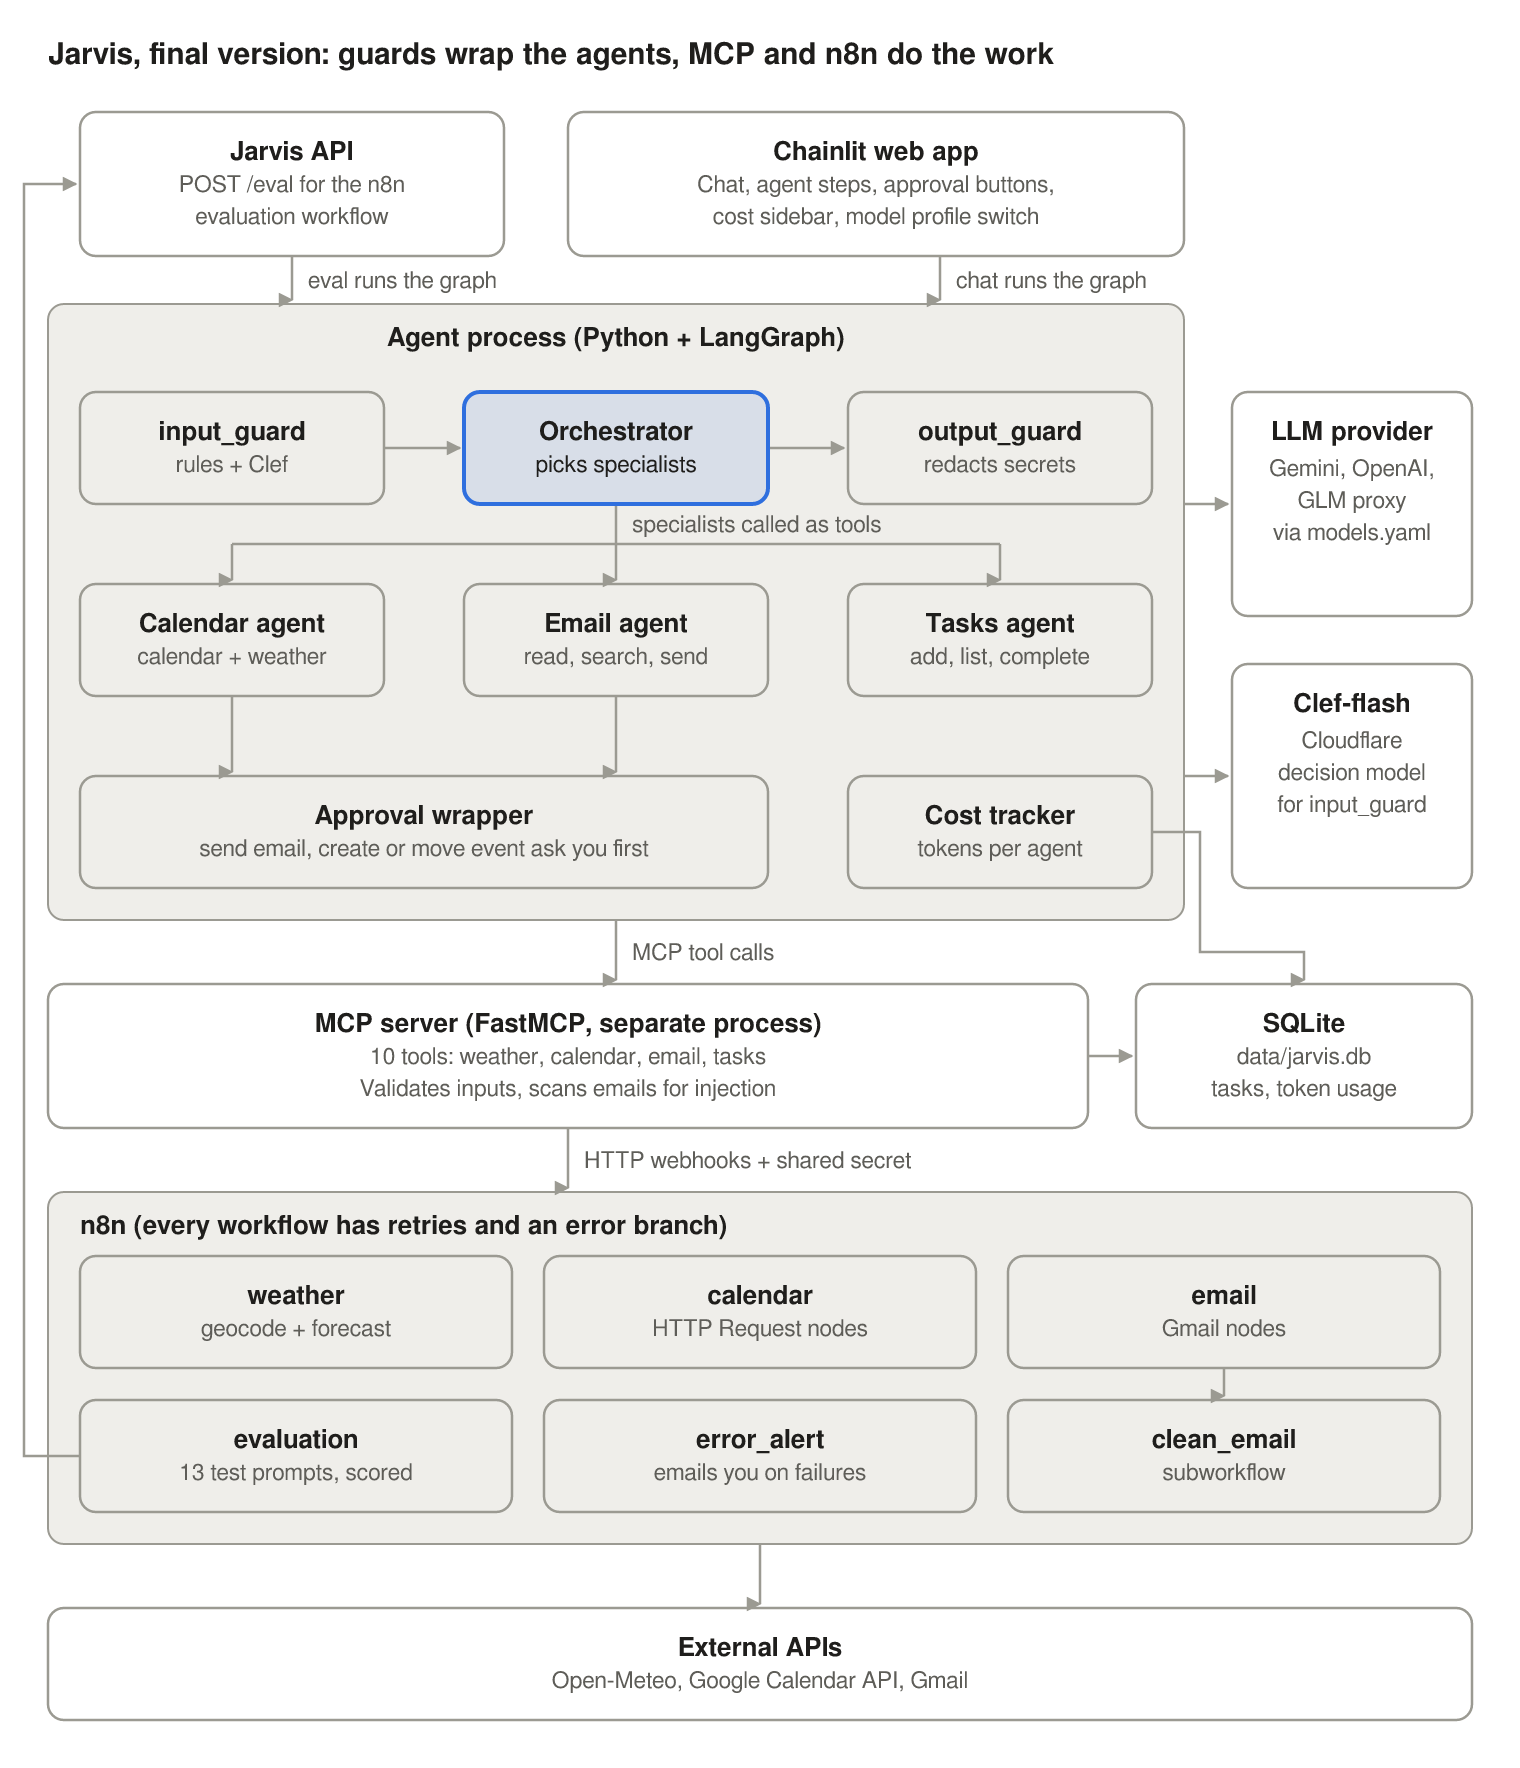
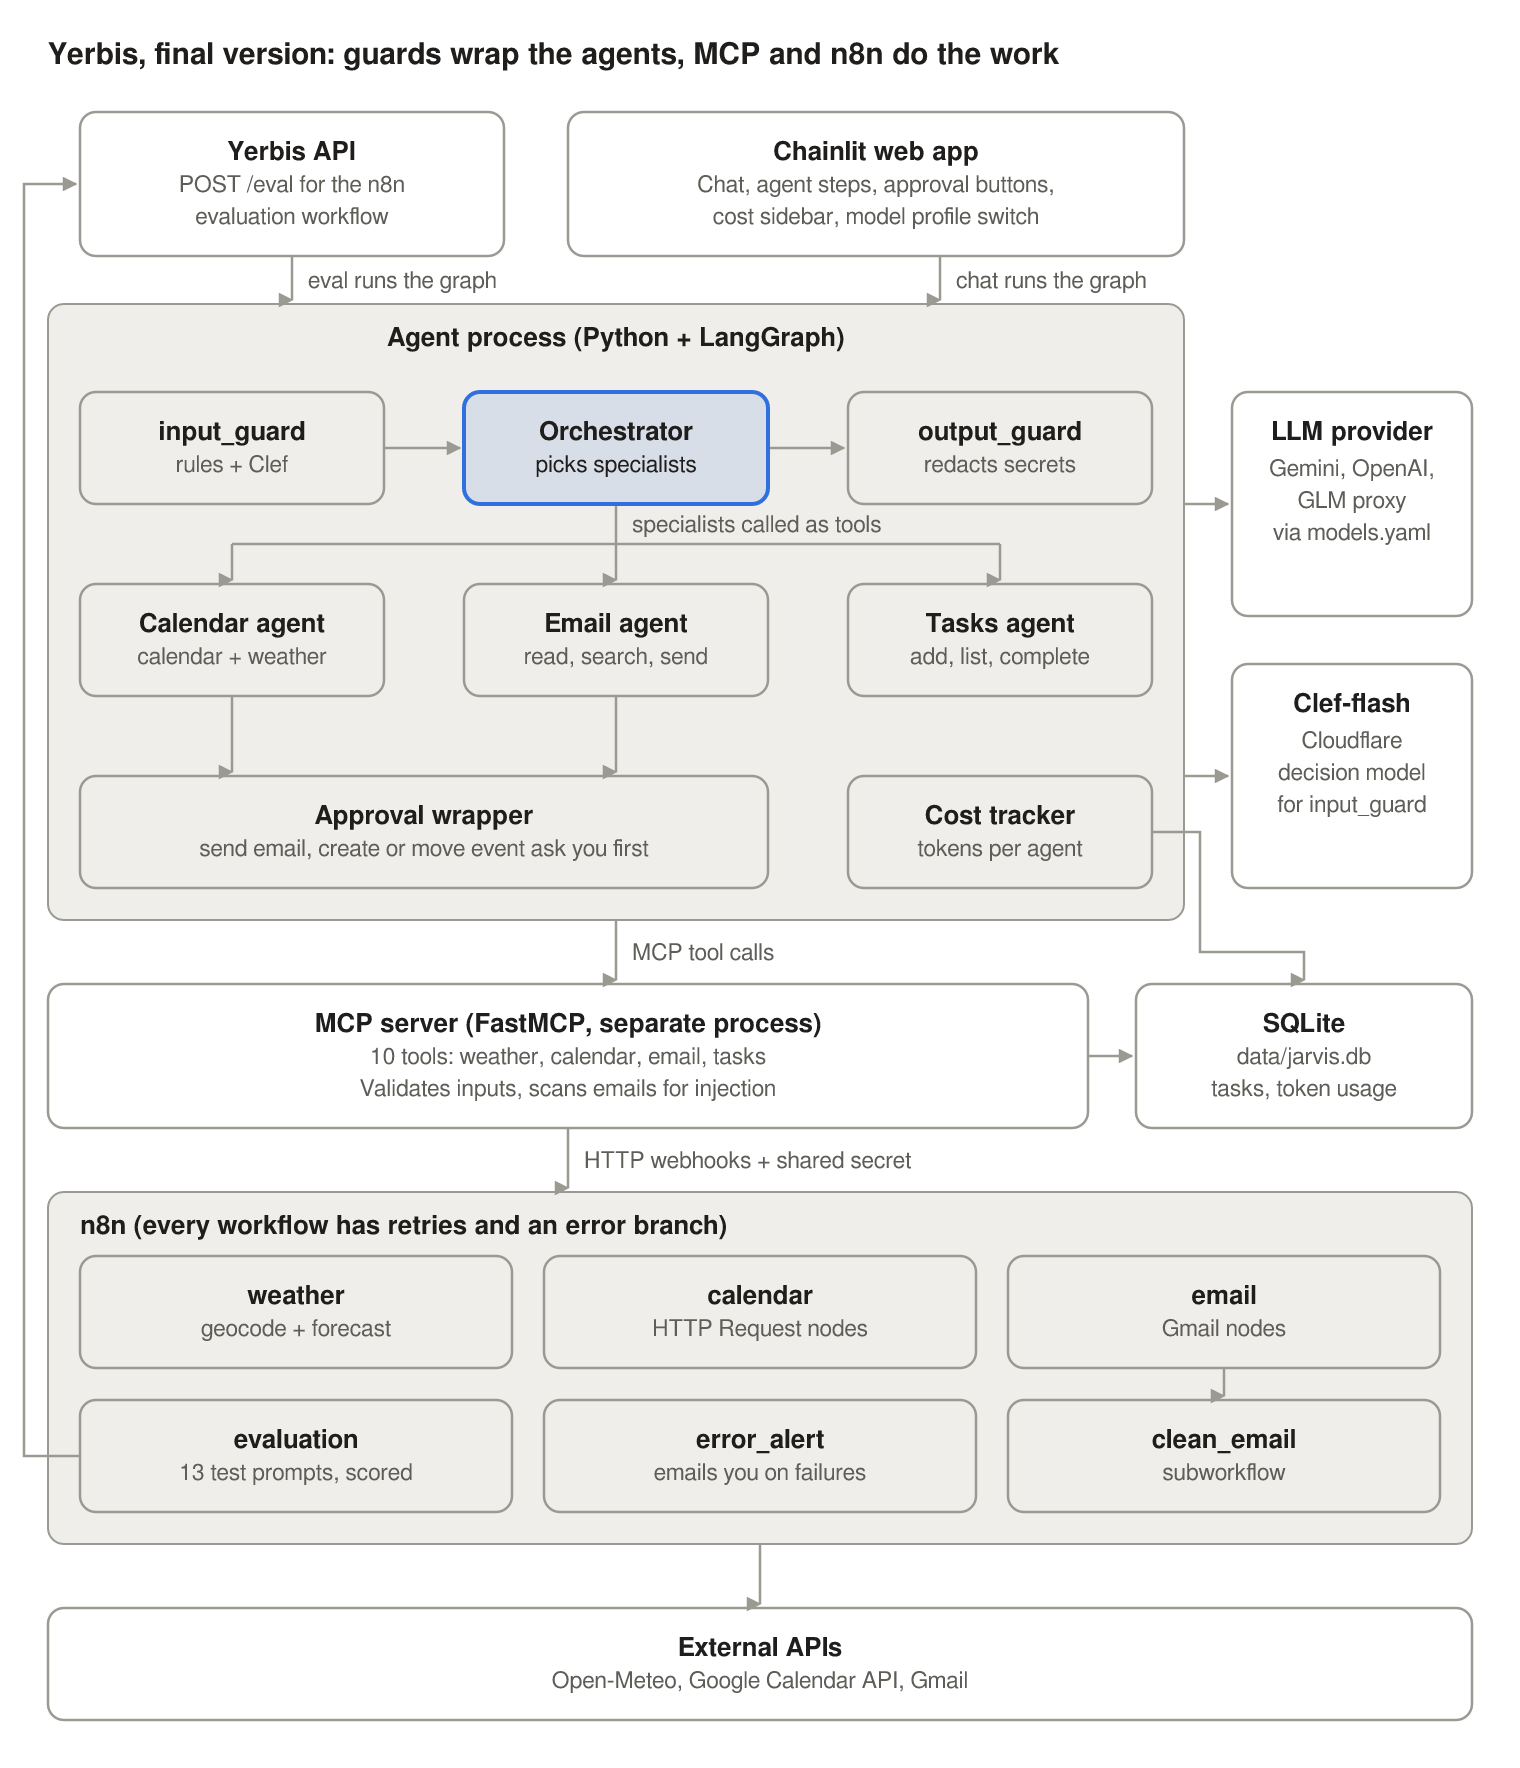
Rename agent

Changed region(s): [[0.0309, 0.0, 0.6803, 0.0933]]

diff --git a/README.md b/README.md
@@ -1,6 +1,15 @@
-# Jarvis: a multi-agent personal assistant
+<p align="center">
+  <picture>
+    <source media="(prefers-color-scheme: dark)" srcset="public/logo_dark.png">
+    <img src="public/logo_light.png" alt="Yerbis" width="360">
+  </picture>
+</p>
 
-Jarvis is a chat assistant that manages your **Google Calendar**, **Gmail**, **to-do tasks** and
+# Yerbis: a multi-agent personal assistant
+
+*Named after **yerba**, the herb of yerba mate: like a good mate, Yerbis keeps you company through the day.*
+
+Yerbis is a chat assistant that manages your **Google Calendar**, **Gmail**, **to-do tasks** and
 **weather** questions. An orchestrator agent built with **LangGraph** delegates each request to
 specialist agents, which use tools exposed through an **MCP server**. The tools reach Google
 through **n8n** workflows. **Guardrails** check every request on the way in, every action before
@@ -28,7 +37,7 @@ MCP, n8n, guardrails, decision models, cost tracking and debugging in one workin
 - **Cost tracking.** Every LLM and Clef call is recorded per agent in SQLite and shown live in the UI.
 - **Model profiles.** Switch between models and providers (Gemini, an OpenAI-compatible proxy,
   OpenAI, Anthropic) from the chat settings, without code changes.
-- **Evaluation.** An n8n workflow runs test prompts against Jarvis and reports a pass rate,
+- **Evaluation.** An n8n workflow runs test prompts against Yerbis and reports a pass rate,
   latency and cost.
 - **Configuration over code.** Agents, models, prices, approvals and guardrails are YAML files.
 
@@ -62,11 +71,13 @@ MCP, n8n, guardrails, decision models, cost tracking and debugging in one workin
 ## Project structure
 
 ```
-jarvis/
+yerbis/
 ├── app.py                  Chainlit web UI: agent steps, approvals, cost table and sidebar
+├── public/                 Yerbis logo (dark and light theme) and favicon, used by Chainlit
+├── .chainlit/config.toml   Chainlit settings, including the app name shown in the UI
 ├── start-jarvis.ps1        Launcher: checks n8n, starts the services, opens the app
 ├── stop-jarvis.ps1         Stops everything the launcher started
-├── api/main.py             Jarvis API: POST /eval, used by the n8n evaluation workflow
+├── api/main.py             Yerbis API: POST /eval, used by the n8n evaluation workflow
 ├── agents/
 │   ├── factory.py          Model profiles, LLMs, specialists built from agents.yaml
 │   ├── graph.py            The graph: input_guard -> orchestrator -> output_guard
@@ -95,8 +106,8 @@ jarvis/
 ### 1. Install
 
 ```powershell
-git clone <your-repo-url> jarvis
-cd jarvis
+git clone <your-repo-url> yerbis
+cd yerbis
 python -m venv .venv
 .venv\Scripts\activate            # macOS/Linux: source .venv/bin/activate
 pip install -r requirements.txt
@@ -152,7 +163,7 @@ Then:
 
 ```powershell
 .\start-jarvis.ps1                     # MCP server + web app at http://localhost:8000
-.\start-jarvis.ps1 -Api                # also the Jarvis API, for the evaluation
+.\start-jarvis.ps1 -Api                # also the Yerbis API, for the evaluation
 .\start-jarvis.ps1 -Terminal           # terminal chat instead of the web app
 .\start-jarvis.ps1 -ModelProfile glm   # another model profile
 .\stop-jarvis.ps1                      # stop everything (n8n keeps running)
@@ -166,10 +177,10 @@ If PowerShell refuses to run the scripts, allow local scripts once:
 ```bash
 python -m mcp_server.server     # MCP server, port 8001
 chainlit run app.py             # web app, port 8000
-python -m api.main              # Jarvis API, port 8002 (only for the evaluation)
+python -m api.main              # Yerbis API, port 8002 (only for the evaluation)
 ```
 
-## Using Jarvis
+## Using Yerbis
 
 | Try | What happens |
 |---|---|
@@ -195,17 +206,18 @@ All configuration is in `config/`, and needs no code changes:
 | `guardrails.yaml` | Tools that need approval, the classifier (`clef`, `llm` or `none`), Clef threshold, budget, recursion limit |
 | `pricing.yaml` | Price per million input and output tokens for each model |
 | `mcp_servers.yaml` | MCP servers the agents load tools from |
+| `.chainlit/config.toml` and `public/` | The app name (`name` under `[UI]`), the logo (`logo_dark.png`, `logo_light.png`) and the favicon |
 
 ## Evaluation
 
-The `evaluation` workflow in n8n sends 13 test prompts to Jarvis through the Jarvis API and scores
+The `evaluation` workflow in n8n sends 13 test prompts to Yerbis through the Yerbis API and scores
 each one: was it blocked when it should be, were exactly the right specialists called, and was
 approval requested for actions? Actions are automatically rejected during an evaluation, so nothing
 is ever sent.
 
 ![Evaluation](docs/diagrams/4-evaluation.png)
 
-1. Start Jarvis with `.\start-jarvis.ps1 -Api`.
+1. Start Yerbis with `.\start-jarvis.ps1 -Api`.
 2. In n8n, open `evaluation` and click **Execute workflow**.
 3. Open **Score** for one row per test, and **Summary** for the pass rate, average latency, tokens and cost.
 
@@ -218,10 +230,10 @@ waits 20 seconds between cases to stay within the Gemini free tier (15 requests 
 
 - **Read-only calls retry 3 times.** Create, move and send never retry, so a timeout can't
   duplicate an action.
-- **Every failure becomes a clean answer** for Jarvis: `{"ok": false, "error": "<node>: <reason>"}`.
+- **Every failure becomes a clean answer** for Yerbis: `{"ok": false, "error": "<node>: <reason>"}`.
 - **The `error_alert` workflow** emails you the workflow, the failed node and the reason.
 
-## Extending Jarvis
+## Extending Yerbis
 
 | To add | What to do |
 |---|---|
@@ -240,10 +252,17 @@ waits 20 seconds between cases to stay within the Gemini free tier (15 requests 
 | "Authorization data is wrong!" | The `X-Jarvis-Secret` value differs from `N8N_SECRET` |
 | Evaluation: `ECONNREFUSED ::1:8002` | n8n runs in Docker: use `host.docker.internal` and set `API_HOST=0.0.0.0` |
 | `429 RESOURCE_EXHAUSTED` | Free-tier rate limit. Slow down, or switch to a paid profile |
-| Input guard: "classifier unavailable" or "clef unavailable" | Check the API key, or the Cloudflare token's Workers AI permissions; the fallback keeps Jarvis working |
+| Input guard: "classifier unavailable" or "clef unavailable" | Check the API key, or the Cloudflare token's Workers AI permissions; the fallback keeps Yerbis working |
 
 Every service prints prefixed log lines: `[n8n ERROR]`, `[guard]` and `[eval ERROR]`.
 `.vscode/launch.json` has debug configurations for each service.
+
+## About the name
+
+The project started as *Jarvis* and was renamed **Yerbis** for its presentation. Some technical
+identifiers keep the original name on purpose, because renaming them would only break existing
+setups: the launcher scripts (`start-jarvis.ps1`, `stop-jarvis.ps1`), the database file
+`data/jarvis.db`, the `X-Jarvis-Secret` header and the n8n node **Ask Jarvis**.
 
 ## Limitations
 
@@ -251,4 +270,4 @@ Every service prints prefixed log lines: `[n8n ERROR]`, `[guard]` and `[eval ERR
 - The email tools can list, search and send plain-text emails, but can't reply in a thread,
   handle attachments or organize the mailbox.
 - Conversation memory lives in memory and is lost when the app restarts.
-- Jarvis is built for a single user on a local machine.
+- Yerbis is built for a single user on a local machine.
